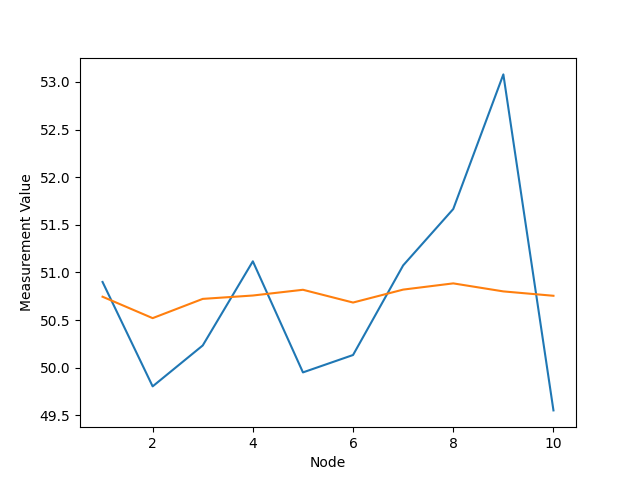
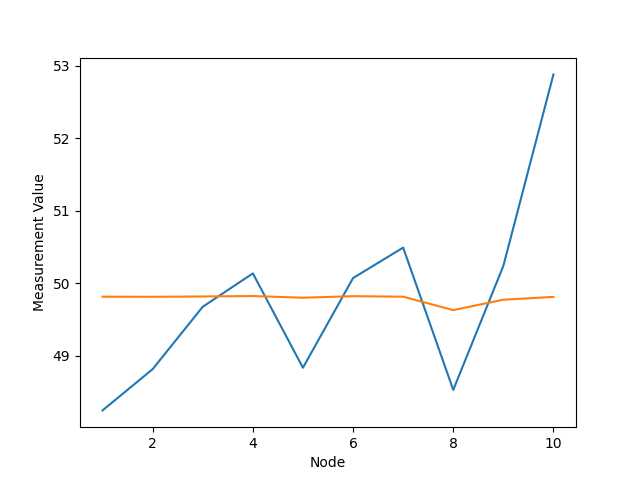
adjusting constant values to make measurements converge

diff --git a/consensus_filter_1.py b/consensus_filter_1.py
@@ -7,7 +7,7 @@ ITERATIONS = 2000
 NUM_NODES = 10
 DIMENSION = 2
 MAX_DISTANCE = 4
-COMMUNICATION_RADIUS = 1.6
+COMMUNICATION_RADIUS = 2.5
 c_v = 0.01
 c_lw = (2 * c_v) / (COMMUNICATION_RADIUS**2 * (NUM_NODES - 1))
 F1 = 50
@@ -73,10 +73,10 @@ def getNetwork():
     return network, avgPos
 
 network, avgPos = getNetwork()
-x_i = F1 * np.ones((NUM_NODES,1)) + 1 * np.random.randn(NUM_NODES, 1)
+x_i = F1 * np.ones((NUM_NODES, 1)) + 1 * np.random.randn(NUM_NODES, 1)
 x_i_initial = copy.copy(x_i)
 x_i_old = copy.copy(x_i)
-
+convergence = {i: F1 * np.ones((ITERATIONS, 1)) for i in range(NUM_NODES)}
 weights = {str(i): {str(j): 0 for j in network} for i in network}
 
 def v_i(pos):
@@ -96,8 +96,9 @@ for i in range(1, ITERATIONS):
         
         x_i[int(name)] = weights[name][name] * x_i_old[int(name)] + addition
     
+    for j in range(len(x_i)):
+        convergence[j][i] -= x_i[j]
     x_i_old = copy.copy(x_i)
-
 
 #   Plot measurements
 measurement_x_initial = [i+1 for i in range(NUM_NODES)]
@@ -106,9 +107,16 @@ measurement_y_initial = x_i_initial
 measurement_x_final = [i+1 for i in range(NUM_NODES)]
 measurement_y_final = x_i
 
-plt.plot(measurement_x_initial, measurement_y_initial, label="IM")
-plt.plot(measurement_x_final, measurement_y_final, label="FM")
+plt.plot(measurement_x_initial, measurement_y_initial, label="Initial Measurement")
+plt.plot(measurement_x_final, measurement_y_final, label="Final Measurement")
 plt.xlabel("Node")
 plt.ylabel("Measurement Value")
 plt.savefig("measurements.png")
+plt.clf()
+
+convergence_x = [i for i in range(1, ITERATIONS)]
+convergence_x
+for i in range(NUM_NODES):
+    plt.plot(convergence_x, np.delete(convergence[i].flatten(), 0))
+plt.savefig("convergence.png")
 plt.clf()
